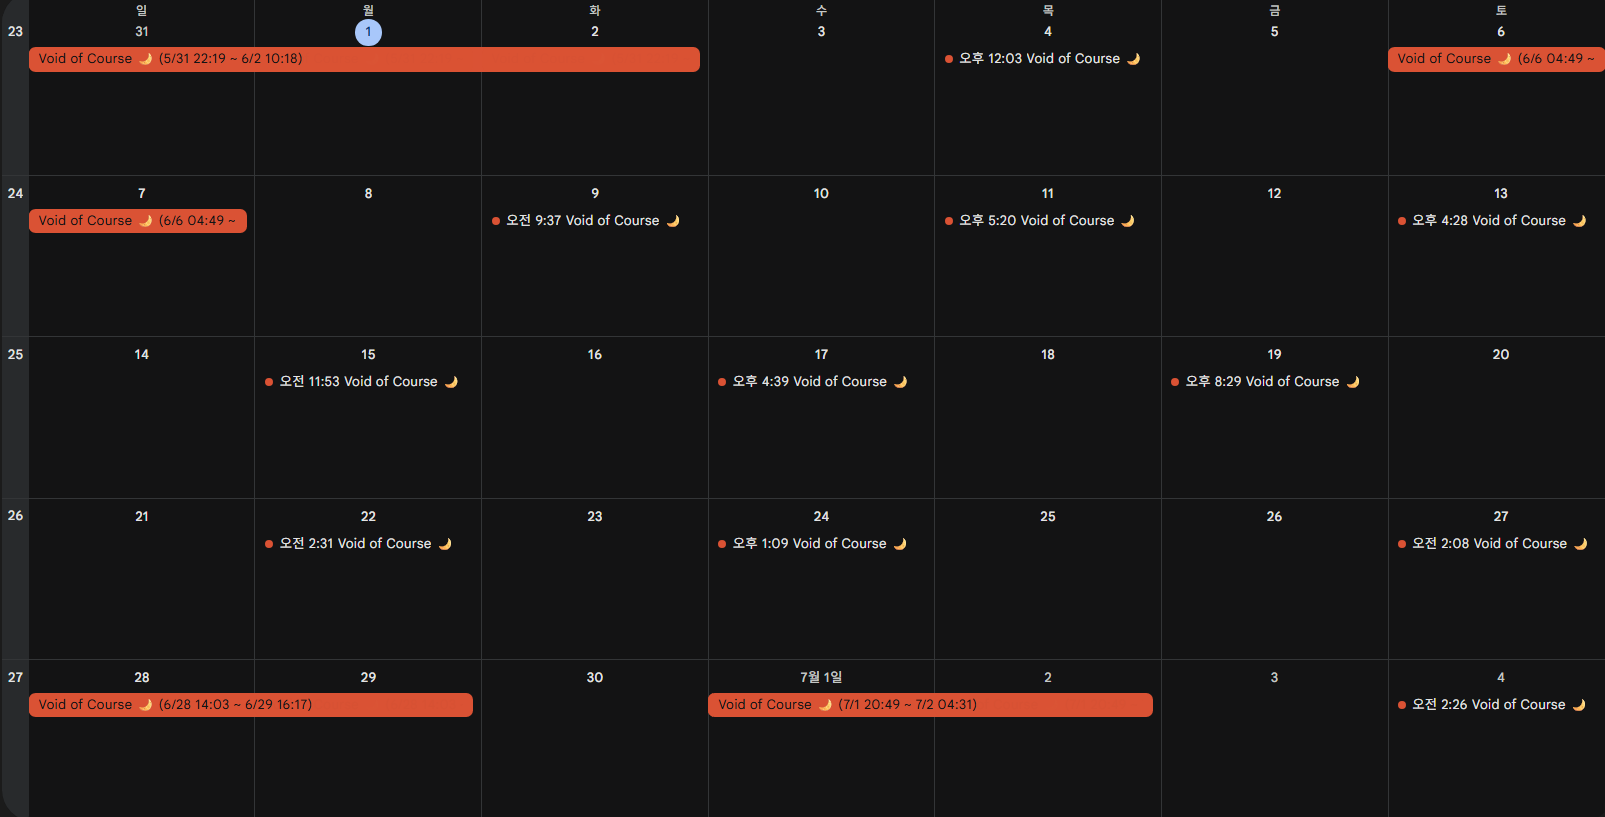
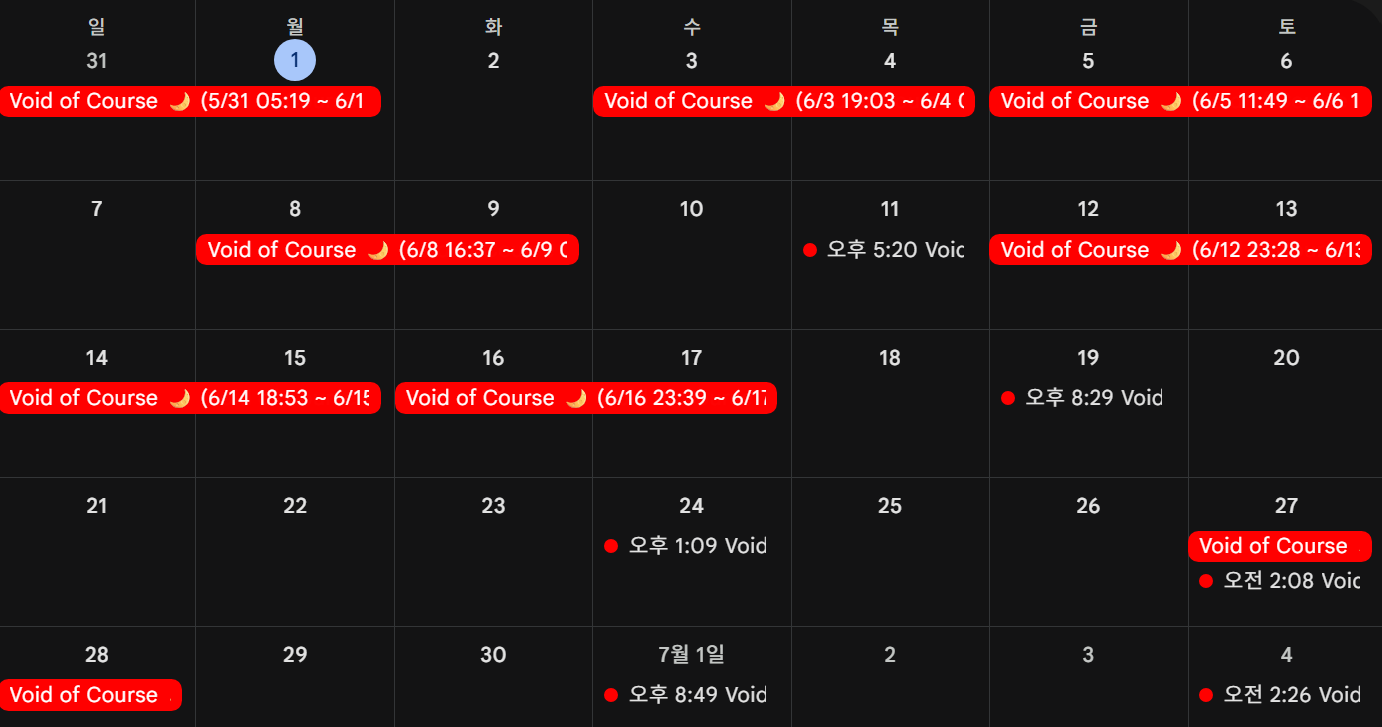
1.2.0+58_Last Test

diff --git a/lib/widgets/premium_dialog.dart b/lib/widgets/premium_dialog.dart
@@ -7,6 +7,7 @@ import 'package:purchases_flutter/purchases_flutter.dart';
 import '../services/purchase_service.dart';
 import '../widgets/app_snackbar.dart';
 import 'package:shared_preferences/shared_preferences.dart';
+import '../services/app_analytics.dart';
 
 // 결제 티어를 나타내는 열거형이에요.
 enum PremiumTier {
@@ -124,6 +125,7 @@ class _PremiumDialogState extends State<PremiumDialog>
   }
 
   void _showInfoCarousel(bool isKo) {
+    AppAnalytics.logPremiumInfoButtonClick();
     _markInfoSeen();
     showDialog(
       context: context,
@@ -294,6 +296,7 @@ class _PremiumDialogState extends State<PremiumDialog>
       _getDynamicTierInfo(_selectedTier, offerings, isKo);
 
   Future<void> _handlePurchase(Package package, bool isKo) async {
+    AppAnalytics.logPremiumPurchase(_selectedTier.name);
     setState(() => _isPurchasing = true);
 
     final success = await PurchaseService.instance.purchasePackage(package);
@@ -322,6 +325,7 @@ class _PremiumDialogState extends State<PremiumDialog>
   }
 
   Future<void> _handleRestore(bool isKo) async {
+    AppAnalytics.logPremiumRestore();
     setState(() => _isPurchasing = true);
 
     final success = await PurchaseService.instance.restorePurchases();
@@ -557,73 +561,57 @@ class _PremiumDialogState extends State<PremiumDialog>
     final bool showGoldHighlight = isRecommended && isSelected;
 
     return GestureDetector(
-      onTap: () => setState(() => _selectedTier = info.tier),
-      child: AnimatedBuilder(
-        animation: _shimmerController,
-        builder: (context, child) {
-          // shimmer gradient offset
-          final shimmerOffset = _shimmerController.value;
-
-          return Container(
-            margin: const EdgeInsets.only(bottom: 10),
-            padding: const EdgeInsets.symmetric(horizontal: 16, vertical: 14),
-            decoration: BoxDecoration(
-              borderRadius: BorderRadius.circular(16),
-              // 선택 상태에 따라 배경색을 다르게 해요.
-              color:
-                  isSelected
-                      ? (isDark
-                          ? const Color.fromARGB(
-                            255,
-                            0,
-                            0,
-                            0,
-                          ).withValues(alpha: 0.9)
-                          : const Color(0xFFF5EEFF))
-                      : (isDark
-                          ? const Color(0xFF13102B).withValues(alpha: 0.6)
-                          : const Color(0xFFF8F8F8)),
-              // 골드 shimmer 테두리 또는 일반 테두리
-              border:
-                  showGoldHighlight
-                      ? Border.all(
-                        color:
-                            Color.lerp(
-                              const Color(0xFFFFD700),
-                              const Color(0xFFFFA500),
-                              (shimmerOffset * 2).clamp(0.0, 1.0),
-                            )!,
-                        width: 2.2,
-                      )
-                      : isSelected
-                      ? Border.all(
-                        color: const Color.fromARGB(255, 0, 0, 0),
-                        width: 1.8,
-                      )
-                      : Border.all(
-                        color:
-                            isDark
-                                ? Colors.white.withValues(alpha: 0.08)
-                                : Colors.grey.withValues(alpha: 0.2),
-                        width: 1.2,
-                      ),
-              // 추천+선택 시 골드 글로우 그림자
-              boxShadow:
-                  showGoldHighlight
-                      ? [
-                        BoxShadow(
-                          color: const Color(
-                            0xFFFFD700,
-                          ).withValues(alpha: 0.25),
-                          blurRadius: 12,
-                          spreadRadius: 1,
-                        ),
-                      ]
-                      : [],
-            ),
-            child: child,
-          );
-        },
+      onTap: () {
+        AppAnalytics.logPremiumTierSelect(info.tier.name);
+        setState(() => _selectedTier = info.tier);
+      },
+      child: Container(
+        margin: const EdgeInsets.only(bottom: 10),
+        padding: const EdgeInsets.symmetric(horizontal: 16, vertical: 14),
+        decoration: BoxDecoration(
+          borderRadius: BorderRadius.circular(16),
+          // 선택 상태에 따라 배경색을 다르게 해요.
+          color:
+              isSelected
+                  ? (isDark
+                      ? const Color.fromARGB(
+                        255,
+                        0,
+                        0,
+                        0,
+                      ).withValues(alpha: 0.9)
+                      : const Color(0xFFF5EEFF))
+                  : (isDark
+                      ? const Color(0xFF13102B).withValues(alpha: 0.6)
+                      : const Color(0xFFF8F8F8)),
+          // 주황 겉 테두리 또는 일반 테두리
+          border:
+              showGoldHighlight
+                  ? Border.all(color: const Color(0xFFFFA500), width: 2.2)
+                  : isSelected
+                  ? Border.all(
+                    color: const Color.fromARGB(255, 0, 0, 0),
+                    width: 1.8,
+                  )
+                  : Border.all(
+                    color:
+                        isDark
+                            ? Colors.white.withValues(alpha: 0.08)
+                            : Colors.grey.withValues(alpha: 0.2),
+                    width: 1.2,
+                  ),
+          // 노랑 그림자
+          boxShadow:
+              showGoldHighlight
+                  ? [
+                    BoxShadow(
+                      color: const Color(0xFFFFD700).withValues(alpha: 0.25),
+                      blurRadius: 12,
+                      spreadRadius: 1,
+                    ),
+                  ]
+                  : [],
+        ),
         child: Row(
           children: [
             // 라디오 버튼 역할을 하는 동그라미

diff --git a/lib/services/app_analytics.dart b/lib/services/app_analytics.dart
@@ -20,6 +20,17 @@ class AppAnalytics {
     );
   }
 
+  static Future<void> setVoidAlarmEnabled(bool enabled) async {
+    await _analytics.logEvent(
+      name: 'toggle_void_alarm',
+      parameters: {'enabled': enabled.toString()},
+    );
+    await _analytics.setUserProperty(
+      name: 'void_alarm_enabled',
+      value: enabled.toString(),
+    );
+  }
+
   static Future<void> logScreenView(String screenName) {
     return _analytics.logScreenView(
       screenName: screenName,
@@ -79,6 +90,48 @@ class AppAnalytics {
     return _analytics.logEvent(
       name: 'click_external_link_cancel',
       parameters: {'service_name': serviceName},
+    );
+  }
+
+  // 프리미엄 관련 로깅
+  static Future<void> logPremiumTabClick() {
+    return _analytics.logEvent(name: 'click_premium_tab');
+  }
+
+  static Future<void> logPremiumInfoButtonClick() {
+    return _analytics.logEvent(name: 'click_premium_info');
+  }
+
+  static Future<void> logPremiumTierSelect(String tier) {
+    return _analytics.logEvent(
+      name: 'select_premium_tier',
+      parameters: {'tier': tier},
+    );
+  }
+
+  static Future<void> logPremiumPurchase(String tier) {
+    return _analytics.logEvent(
+      name: 'purchase_premium_attempt',
+      parameters: {'tier': tier},
+    );
+  }
+
+  static Future<void> logPremiumRestore() {
+    return _analytics.logEvent(name: 'restore_premium_attempt');
+  }
+
+  static Future<void> logPremiumWidgetClick() {
+    return _analytics.logEvent(name: 'click_premium_widget');
+  }
+
+  static Future<void> logPremiumCalendarSyncClick() {
+    return _analytics.logEvent(name: 'click_premium_calendar_sync');
+  }
+
+  static Future<void> logPremiumCalendarSyncDuration(int months) {
+    return _analytics.logEvent(
+      name: 'select_calendar_sync_duration',
+      parameters: {'months': months},
     );
   }
 }

diff --git a/lib/screens/setting_screen.dart b/lib/screens/setting_screen.dart
@@ -13,7 +13,7 @@ import 'package:void_of_course/services/locale_provider.dart'; // 앱의 현재 
 import 'package:url_launcher/url_launcher.dart'; // 웹사이트나 이메일 앱을 열어주는 라이브러리예요.
 import '../widgets/reusable_native_ad_widget.dart';
 import 'package:firebase_analytics/firebase_analytics.dart';
-import 'package:void_of_course/services/app_analytics.dart';
+import '../services/app_analytics.dart';
 import '../widgets/premium_badge.dart';
 
 // 설정 화면을 보여주는 위젯이에요.
@@ -154,15 +154,7 @@ class SettingScreen extends StatelessWidget {
                                   astroState
                                       .voidAlarmEnabled, // 스위치의 현재 상태(켜짐/꺼짐)를 AstroState에서 가져와요.
                               onChanged: (value) async {
-                                await FirebaseAnalytics.instance.logEvent(
-                                  name: 'toggle_void_alarm',
-                                  parameters: {'enabled': value.toString()},
-                                );
-                                await FirebaseAnalytics.instance
-                                    .setUserProperty(
-                                      name: 'void_alarm_enabled',
-                                      value: value.toString(),
-                                    );
+                                await AppAnalytics.setVoidAlarmEnabled(value);
                                 // 스위치를 누르면 이 코드가 실행돼요.
                                 // 보이드 알람을 켜거나 끄는 함수를 불러와요.
                                 final status = await astroState.toggleVoidAlarm(

diff --git a/lib/main.dart b/lib/main.dart
@@ -249,15 +249,7 @@ class _MainAppScreenState extends State<MainAppScreen>
       _checkWidgetStatus();
       Provider.of<AstroState>(context, listen: false).ensureServiceRunning();
       WidgetService.refreshFromPrefs();
-
-      // 앱 복귀 시 구글 캘린더 자동 동기화 시도 (프리미엄만, 1시간 쿨타임 적용됨)
-      final localeCode =
-          Provider.of<LocaleProvider>(
-            context,
-            listen: false,
-          ).locale?.languageCode ??
-          'ko';
-      GoogleCalendarService.instance.autoSyncIfPremium(locale: localeCode);
+      WidgetService.refreshFromPrefs();
     } else if (state == AppLifecycleState.paused ||
         state == AppLifecycleState.inactive ||
         state == AppLifecycleState.detached) {

diff --git a/lib/screens/developer_notes_screen.dart b/lib/screens/developer_notes_screen.dart
@@ -54,12 +54,12 @@ class InfoScreen extends StatelessWidget {
         titleEn: '<26-06-05 Update>',
         contentKo: '''
 안녕하세요 리오입니다.
-이번 1.2.0+ 00000000000000000 업데이트 사항입니다.
+이번 1.2.0+59 업데이트 사항입니다.
 
 1. 보이드 알람 시간체크 방식 변경
 2. 캘린더 기능 UTC 시간 수정 및 개선
 3. 날짜 설정 (연/월/일) 선택 방식 추가
-4. 프리미엄 기능(구글 캘린더 연동, 광고제거, 보이드 위젯) 추가
+4. 프리미엄 기능(광고제거, 보이드 위젯, 구글 캘린더 연동) 추가
 
 앱을 편하게 사용하시고 계시거나 or 불편한 점이 있다면, 오픈카톡에 오셔서 점성학에 관한 이야기와, 앱에 대한 피드백을 나눠주세요. 
 
@@ -70,12 +70,12 @@ class InfoScreen extends StatelessWidget {
 ''',
         contentEn: '''
 Hi, this is developer Lio.
-This is a 1.2.0+ 00000000000000000000 update.
+This is a 1.2.0+59 update.
 
 1. Void notification time check method changed
 2. Calendar feature UTC time correction and improvement
 3. Date setting (Year/Month/Day) selection method added
-4. Premium features (Google Calendar integration, Ad removal, Home screen widget) added
+4. Premium features (Remove ads, Void Widget, Google Calendar Sync) added
 
 If you have any feedback or questions, please contact us.
 ''',

diff --git a/lib/screens/premium_screen.dart b/lib/screens/premium_screen.dart
@@ -10,6 +10,7 @@ import 'package:void_of_course/themes.dart';
 import 'package:void_of_course/l10n/app_localizations.dart';
 import 'package:home_widget/home_widget.dart';
 import '../widgets/premium_badge.dart';
+import '../services/app_analytics.dart';
 
 class PremiumScreen extends StatelessWidget {
   const PremiumScreen({super.key});
@@ -85,6 +86,7 @@ class _GoogleCalendarCardState extends State<GoogleCalendarCard> {
   bool _isLoading = false;
 
   Future<void> _handleSignIn() async {
+    AppAnalytics.logPremiumCalendarSyncClick(); // Or a separate log like logPremiumCalendarLinkAttempt
     setState(() => _isLoading = true);
     final calService = GoogleCalendarService.instance;
     final success = await calService.signIn();
@@ -114,6 +116,7 @@ class _GoogleCalendarCardState extends State<GoogleCalendarCard> {
   }
 
   Future<void> _handleSync() async {
+    AppAnalytics.logPremiumCalendarSyncClick();
     final calService = GoogleCalendarService.instance;
     final localeProvider = Provider.of<LocaleProvider>(context, listen: false);
     final locale = localeProvider.locale?.languageCode ?? 'ko';
@@ -298,6 +301,7 @@ class _GoogleCalendarCardState extends State<GoogleCalendarCard> {
                                 ? null
                                 : (range) {
                                   if (range != null) {
+                                    AppAnalytics.logPremiumCalendarSyncDuration(range.months);
                                     calService.setSyncRange(range);
                                   }
                                 },
@@ -469,6 +473,7 @@ class HomeWidgetCard extends StatelessWidget {
             ),
           ),
           onTap: () async {
+            AppAnalytics.logPremiumWidgetClick();
             if (!isPremium) {
               showDialog(
                 context: context,

diff --git a/lib/services/google_calendar_service.dart b/lib/services/google_calendar_service.dart
@@ -95,11 +95,6 @@ class GoogleCalendarService extends ChangeNotifier {
         _currentUser = account;
         await _initCalendarApi(account);
         debugPrint('[GoogleCalendar] 조용한 로그인 복원: ${account.email}');
-
-        // 앱 초기화 시 프리미엄 유저라면 자동 동기화 실행 (백그라운드)
-        if (isPremiumUser) {
-          autoSyncIfPremium();
-        }
       }
     } catch (e) {
       debugPrint('[GoogleCalendar] 조용한 로그인 복원 실패 (무시): $e');